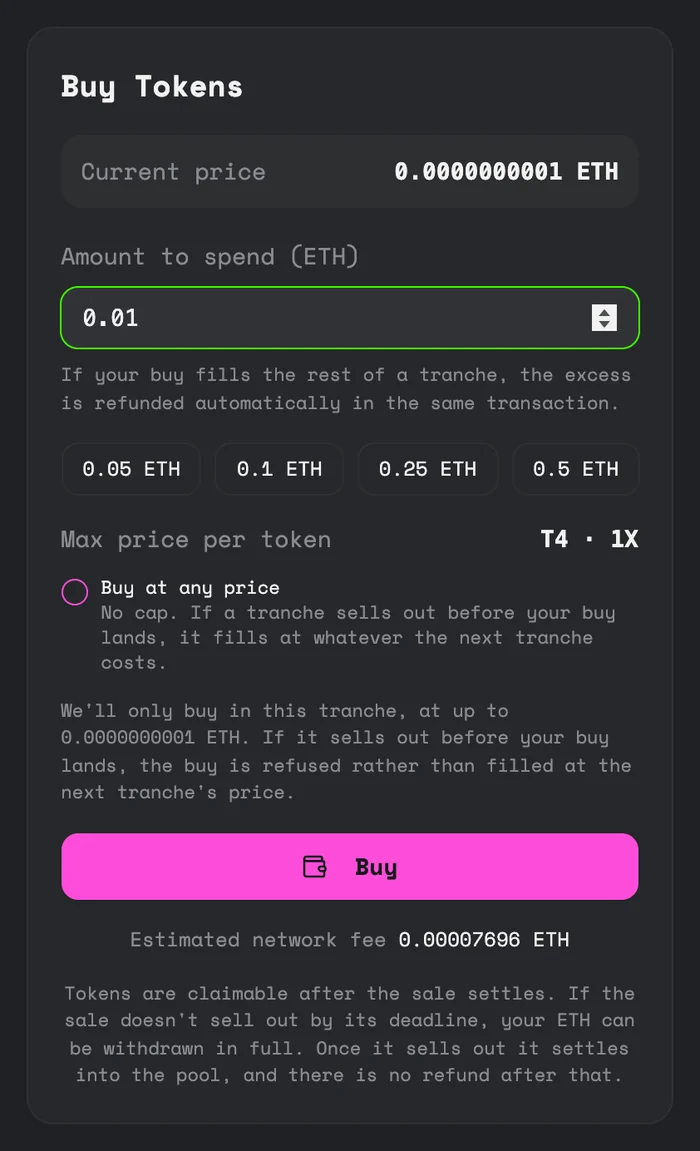
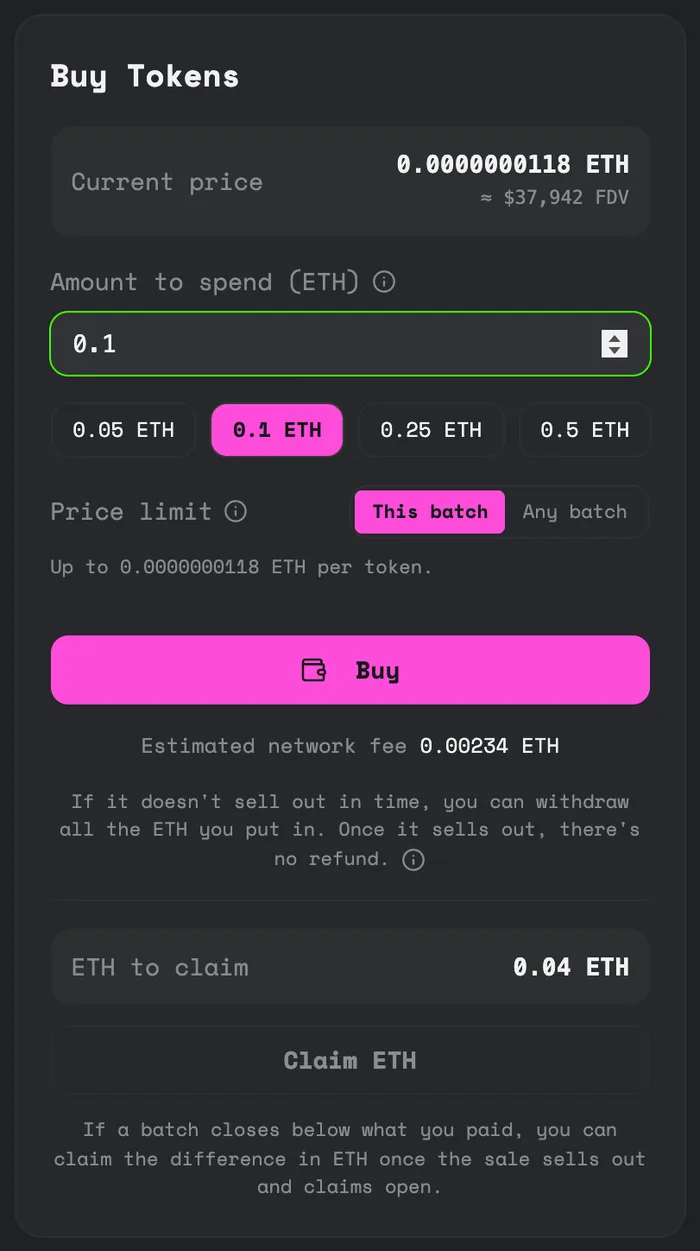
Retake every screenshot from the current app, and match the alt text, captions and footer
The screenshots now come from a local build of the frontend's main branch with
example data, so the alt text and captions describe what they show: the new
badge names, the Claim panel, the sold-out trading buttons, the Creator Fee row
and the 4-hour sale timeout. The footer on every page now says the screenshots
are from punk.fun on Ethereum and that the names and numbers are examples.

diff --git a/launch-a-token.html b/launch-a-token.html
@@ -68,7 +68,7 @@
 
     <h2>Step 1: Your token</h2>
     <figure class="shot">
-        <img src="img/launch-details.webp" alt="The token details section of the launch form: name, ticker, fixed supply of 1,000,000,000, description, X account and image" loading="lazy">
+        <img src="img/launch-details.webp" alt="The top of the launch form filled in with the name Dingo and the ticker $DINGO, the fixed supply of 1,000,000,000, a description, a Connect X button and the token image upload" loading="lazy">
         <figcaption>The top of the launch form. Supply is fixed at 1 billion, so there's nothing to choose there.</figcaption>
     </figure>
     <div class="table-wrap">
@@ -86,7 +86,7 @@
 
     <h2>Step 2: Sale settings</h2>
     <figure class="shot">
-        <img src="img/launch-sale-settings.webp" alt="The sale settings section: sale start, opening price and sale timeout with 4 hours, 1 day, 1 week and 30 days buttons" loading="lazy">
+        <img src="img/launch-sale-settings.webp" alt="The sale settings section: sale start, opening price of 0.00000001 ETH with its starting FDV, and sale timeout with 4 hours, 1 day, 1 week and 30 days buttons and 1 day picked" loading="lazy">
         <figcaption>Sale settings: when the sale opens, the opening price and how long it runs.</figcaption>
     </figure>
     <div class="table-wrap">
@@ -103,8 +103,8 @@
     <h2>Step 3: Advanced settings</h2>
     <p>These are filled in with the defaults. You only need to open them if you want a different shape of sale.</p>
     <figure class="shot">
-        <img src="img/launch-advanced.webp" alt="The advanced configuration section with first batch size, price floor, price decay, batch size growth, batch price growth, decay growth, launch price multiplier and the creator fee slider" loading="lazy">
-        <figcaption>Advanced settings, filled in with the defaults, with the creator fee slider at the bottom. Each one shows its allowed range underneath.</figcaption>
+        <img src="img/launch-advanced.webp" alt="The advanced configuration section with first batch size, price floor, price decay, batch size growth, batch price growth, decay growth, launch price multiplier and the Set creator fee slider at 5%, rated Healthy" loading="lazy">
+        <figcaption>Advanced settings, filled in with the defaults, with the creator fee slider at the bottom. Each one shows its default underneath, and the multiples show their allowed range too.</figcaption>
     </figure>
     <div class="table-wrap">
     <table>
@@ -136,7 +136,7 @@
 
     <h2>Step 4: Launch</h2>
     <figure class="shot">
-        <img src="img/launch-submit.webp" alt="The Launch Token button with the estimated network fee, and a note that the wallet signs the whole launch once" loading="lazy">
+        <img src="img/launch-submit.webp" alt="The Launch Token button, a note that your wallet asks you to confirm once, and the Fees box with the creator fee rated Healthy" loading="lazy">
         <figcaption>If your wallet can batch transactions, you sign the whole launch once.</figcaption>
     </figure>
     <p>Press <strong>Launch Token</strong>. If your wallet can batch transactions, you sign once and that one signature creates your token, creates the sale, funds it with the full supply and opens it.</p>
@@ -169,7 +169,7 @@
     <img class="beads-strip" src="img/brand/beads-strip.png" alt="" aria-hidden="true">
 
     <footer>
-        punk.fun documentation &middot; <a href="https://punk.fun">punk.fun</a> &middot; punk.fun is in alpha on Ethereum. Some screenshots were taken on a test network before launch, so the names and numbers in them are examples.
+        punk.fun documentation &middot; <a href="https://punk.fun">punk.fun</a> &middot; punk.fun is in alpha on Ethereum. The screenshots are from punk.fun on Ethereum, and the names and numbers in them are examples.
     </footer>
 </main>
 

diff --git a/sale-states.html b/sale-states.html
@@ -79,31 +79,31 @@
 
     <h2>Upcoming</h2>
     <figure class="shot wide">
-        <img src="img/sale-upcoming.webp" alt="A sale marked SOON with a countdown to when the auction opens and a Notify Me When Live button" loading="lazy">
+        <img src="img/sale-upcoming.webp" alt="A sale marked Upcoming, saying the auction begins in about 2 hours, with the start block and a Notify Me When Live button" loading="lazy">
         <figcaption>A scheduled sale. The page counts down to the block where buying opens.</figcaption>
     </figure>
 
     <h2>Live</h2>
     <figure class="shot wide">
-        <img src="img/sale-live-overview.webp" alt="A live sale with the price, progress, chart and Buy Tokens panel" loading="lazy">
+        <img src="img/sale-live-overview.webp" alt="A sale marked Live with the current price, batch, progress, the batch chart and the Buy Tokens panel" loading="lazy">
         <figcaption>A live sale. See <a href='buy-in-an-auction.html'>Buy in an auction</a>.</figcaption>
     </figure>
 
     <h2>Sold out</h2>
     <figure class="shot wide">
-        <img src="img/sale-soldout.webp" alt="A sold-out sale with the Claim Your Tokens panel" loading="lazy">
+        <img src="img/sale-soldout.webp" alt="A sale marked Sold out with the Claim panel and the Trade on Uniswap button" loading="lazy">
         <figcaption>A sold-out sale. See <a href='after-the-sale.html'>Claiming and after the sale</a>.</figcaption>
     </figure>
 
     <h2>Ended &ndash; ETH to claim</h2>
     <figure class="shot wide">
-        <img src="img/sale-expired.webp" alt="A sale marked EXPIRED with a Your Refund card and a Withdraw button" loading="lazy">
+        <img src="img/sale-expired.webp" alt="A sale marked Ended &ndash; ETH to claim with an Auction Expired note, a Your Refund card and a Withdraw button" loading="lazy">
         <figcaption>A sale that missed its deadline, with refunds open. See <a href='refunds.html'>When a sale doesn't sell out</a>.</figcaption>
     </figure>
 
     <h2>Not funded</h2>
     <figure class="shot wide">
-        <img src="img/sale-notfunded.webp" alt="A sale marked NOT FUNDED saying setup is incomplete" loading="lazy">
+        <img src="img/sale-notfunded.webp" alt="A sale marked Not funded with a Setup incomplete card saying whoever launched it needs to finish the last step" loading="lazy">
         <figcaption>A launch that was started but not finished. This only happens with wallets that need four confirmations to launch.</figcaption>
     </figure>
 
@@ -121,7 +121,7 @@
     <img class="beads-strip" src="img/brand/beads-strip.png" alt="" aria-hidden="true">
 
     <footer>
-        punk.fun documentation &middot; <a href="https://punk.fun">punk.fun</a> &middot; punk.fun is in alpha on Ethereum. Some screenshots were taken on a test network before launch, so the names and numbers in them are examples.
+        punk.fun documentation &middot; <a href="https://punk.fun">punk.fun</a> &middot; punk.fun is in alpha on Ethereum. The screenshots are from punk.fun on Ethereum, and the names and numbers in them are examples.
     </footer>
 </main>
 

diff --git a/after-the-sale.html b/after-the-sale.html
@@ -72,14 +72,14 @@
     </ol>
 
     <figure class="shot wide">
-        <img src="img/sale-soldout.webp" alt="A sold-out sale marked CLAIM, with all four batches filled, a Claim Your Tokens panel and a Trade on Uniswap button" loading="lazy">
-        <figcaption>A sold-out sale. Every batch has filled, the claim panel is open, and there's a link to trade the token on Uniswap.</figcaption>
+        <img src="img/sale-soldout.webp" alt="A sold-out sale marked Sold out, with all eight batches filled, a Claim panel, and a strip saying the token is now trading on Uniswap with Trade on Uniswap, Chart on DexScreener and Pool on Etherscan buttons" loading="lazy">
+        <figcaption>A sold-out sale. Every batch has filled, the Claim panel is open, and the buttons at the top take you to the token on Uniswap.</figcaption>
     </figure>
 
     <h2>Claiming</h2>
     <figure class="shot narrow">
-        <img src="img/claim-panel.webp" alt="The Claim Your Tokens panel showing 150,000,000 DINGO claimable and a Claim button" loading="lazy">
-        <figcaption>One press claims everything you're owed.</figcaption>
+        <img src="img/claim-panel.webp" alt="The Claim panel showing 42,000 ACID to claim and 0.04 ETH to claim, with Claim 42,000 ACID, Claim ETH and Claim all buttons" loading="lazy">
+        <figcaption>The Claim panel. Claim your tokens and any ETH you're owed separately, or press Claim all to take both at once.</figcaption>
     </figure>
     <p>Once a sale has sold out, the buy panel becomes the <strong>Claim</strong> panel. One transaction claims all your tokens. There's no deadline.</p>
 
@@ -92,7 +92,7 @@
     <p>Your <strong>Profile</strong> page lists everything you can claim or withdraw across all sales, including ETH you're owed back, plus your open positions in live ones.</p>
 
     <figure class="shot wide">
-        <img src="img/profile.webp" alt="The Profile page showing claimable items, open positions and your launches" loading="lazy">
+        <img src="img/profile.webp" alt="The Profile page with the wallet address and points at the top, then Claimable, Open positions and Your launches" loading="lazy">
         <figcaption>Your Profile page, with anything claimable or refundable at the top.</figcaption>
     </figure>
 
@@ -128,7 +128,7 @@
     <img class="beads-strip" src="img/brand/beads-strip.png" alt="" aria-hidden="true">
 
     <footer>
-        punk.fun documentation &middot; <a href="https://punk.fun">punk.fun</a> &middot; punk.fun is in alpha on Ethereum. Some screenshots were taken on a test network before launch, so the names and numbers in them are examples.
+        punk.fun documentation &middot; <a href="https://punk.fun">punk.fun</a> &middot; punk.fun is in alpha on Ethereum. The screenshots are from punk.fun on Ethereum, and the names and numbers in them are examples.
     </footer>
 </main>
 

diff --git a/buy-in-an-auction.html b/buy-in-an-auction.html
@@ -67,7 +67,7 @@
     <p>The Explore page shows every launch as a list or a grid of tiles, each with a badge showing where it's at. You can filter by Upcoming, Live or Sold out, or switch on <strong>Verified X only</strong> to see only creators who've proved their X account. <strong>Live</strong> means you can buy now. The other badges are explained on <a href="sale-states.html">Sale states</a>.</p>
 
     <figure class="shot">
-        <img src="img/explore-list.webp" alt="The All Tokens list on the Explore page, with CLAIM, LIVE, UNSOLD, EXPIRED, SOON and NOT FUNDED badges" loading="lazy">
+        <img src="img/explore-list.webp" alt="The All Tokens list on the Explore page sorted by Latest Launch, with the Upcoming, Live, Sold out and Ended filters above it and Upcoming, Not funded, Live, Selling out and Sold out badges on the rows" loading="lazy">
         <figcaption>The token list on Explore. Each badge tells you what you can do with that sale right now.</figcaption>
     </figure>
 
@@ -88,7 +88,7 @@
 
     <h2>Placing a buy</h2>
     <figure class="shot narrow">
-        <img src="img/buy-panel.webp" alt="The Buy Tokens panel with the current price, an amount to spend, quick amounts, the price limit option and the Buy button" loading="lazy">
+        <img src="img/buy-panel.webp" alt="The Buy Tokens panel with the current price and its FDV, 0.1 ETH entered, quick amounts, Price limit set to This batch, the Buy button and the estimated network fee" loading="lazy">
         <figcaption>The Buy Tokens panel. Enter the ETH you want to spend, or tap one of the quick amounts. The network fee is estimated before you sign. Beneath the price you'll see roughly what the whole token would be worth in dollars at that price, its FDV.</figcaption>
     </figure>
     <p>You enter an amount of ETH. The sale works out how many tokens that buys at the current price and records them against your wallet. That number of tokens is fixed from then on. Three things are worth knowing.</p>
@@ -150,7 +150,7 @@
     <img class="beads-strip" src="img/brand/beads-strip.png" alt="" aria-hidden="true">
 
     <footer>
-        punk.fun documentation &middot; <a href="https://punk.fun">punk.fun</a> &middot; punk.fun is in alpha on Ethereum. Some screenshots were taken on a test network before launch, so the names and numbers in them are examples.
+        punk.fun documentation &middot; <a href="https://punk.fun">punk.fun</a> &middot; punk.fun is in alpha on Ethereum. The screenshots are from punk.fun on Ethereum, and the names and numbers in them are examples.
     </footer>
 </main>
 

diff --git a/refunds.html b/refunds.html
@@ -68,8 +68,8 @@
 
     <h2>Getting your ETH back</h2>
     <figure class="shot wide">
-        <img src="img/sale-unsold.webp" alt="A sale page marked UNSOLD with a Your Refund card showing 0.0582 ETH available to withdraw" loading="lazy">
-        <figcaption>A sale that missed its deadline. The Your Refund card shows what you can take back.</figcaption>
+        <img src="img/sale-unsold.webp" alt="A sale page marked Ended &ndash; ETH to claim with a Sale Ended Unsold note and a Your Refund card showing 0.8 ETH available to withdraw" loading="lazy">
+        <figcaption>A sale that missed its deadline and that nobody has closed yet. The Your Refund card shows what you can take back, and that a wallet that can batch closes the sale and sends your ETH back in one confirmation.</figcaption>
     </figure>
     <p>Open the sale and press <strong>Withdraw</strong> on the Your Refund card. You get back exactly what you paid. Not a share, not minus a fee: the same amount. There's no deadline to withdraw, so there's no rush.</p>
 
@@ -79,7 +79,7 @@
     </div>
 
     <figure class="shot">
-        <img src="img/refund-expired.webp" alt="The Your Refund card on an expired sale with a Withdraw 0.0776 ETH button" loading="lazy">
+        <img src="img/refund-expired.webp" alt="The Your Refund card on a closed sale with 0.8 ETH available to withdraw and a Withdraw 0.8 ETH button" loading="lazy">
         <figcaption>Once someone has closed the sale, withdrawing is a single ordinary transaction.</figcaption>
     </figure>
 
@@ -107,7 +107,7 @@
     <img class="beads-strip" src="img/brand/beads-strip.png" alt="" aria-hidden="true">
 
     <footer>
-        punk.fun documentation &middot; <a href="https://punk.fun">punk.fun</a> &middot; punk.fun is in alpha on Ethereum. Some screenshots were taken on a test network before launch, so the names and numbers in them are examples.
+        punk.fun documentation &middot; <a href="https://punk.fun">punk.fun</a> &middot; punk.fun is in alpha on Ethereum. The screenshots are from punk.fun on Ethereum, and the names and numbers in them are examples.
     </footer>
 </main>
 

diff --git a/the-pool.html b/the-pool.html
@@ -110,8 +110,8 @@
     <p>So the last batch, which is three quarters of the money in the sale, starts about 34% below what it paid before anyone has traded. Earlier batches start above what they paid. This isn't a bug or a fee, it's arithmetic: the average is always below the top of a rising price ladder.</p>
 
     <figure class="shot wide">
-        <img src="img/sale-soldout.webp" alt="A sold-out sale with an average paid line at 4.26 gwei, below the last batch's bar" loading="lazy">
-        <figcaption>The same thing on a real sale on the test network, before launch. The dashed line is the average paid, 4.26 gwei. The last batch paid 7.60 gwei, so trading opened about 44% below it.</figcaption>
+        <img src="img/sale-soldout.webp" alt="A sold-out sale whose chart has a dashed average-paid line at an FDV of $84.8K, well below the last batch's bar" loading="lazy">
+        <figcaption>The same thing on a sale page. The chart shows prices as FDV in dollars. The dashed line is the average paid, an FDV of $84.8K. The last batch cleared at 0.0000000376 ETH, an FDV of about $120K, so trading opened about 30% below it.</figcaption>
     </figure>
 
     <div class="callout warn">
@@ -142,7 +142,7 @@
     <img class="beads-strip" src="img/brand/beads-strip.png" alt="" aria-hidden="true">
 
     <footer>
-        punk.fun documentation &middot; <a href="https://punk.fun">punk.fun</a> &middot; punk.fun is in alpha on Ethereum. Some screenshots were taken on a test network before launch, so the names and numbers in them are examples.
+        punk.fun documentation &middot; <a href="https://punk.fun">punk.fun</a> &middot; punk.fun is in alpha on Ethereum. The screenshots are from punk.fun on Ethereum, and the names and numbers in them are examples.
     </footer>
 </main>
 

diff --git a/how-it-works.html b/how-it-works.html
@@ -100,8 +100,8 @@
     <p><a href="pricing.html">Pricing</a> covers the settings and what to expect as a buyer.</p>
 
     <figure class="shot wide">
-        <img src="img/sale-live-overview.webp" alt="A live sale page showing the token, current price, auction progress, the batch chart and the Buy Tokens panel" loading="lazy">
-        <figcaption>A live sale. The chart shows each batch, the progress bar shows how much of the 500M has been bought, and you buy from the panel on the right.</figcaption>
+        <img src="img/sale-live-overview.webp" alt="A live sale page showing the token, current price, auction progress, the batch chart, the Buy Tokens panel and Token Details" loading="lazy">
+        <figcaption>A live sale. The chart shows each batch, the progress bar shows how much of the 500M has been bought, and you buy from the panel on the right. On a phone, the panel comes after the chart.</figcaption>
     </figure>
 
     <div class="callout">
@@ -152,7 +152,7 @@
     <img class="beads-strip" src="img/brand/beads-strip.png" alt="" aria-hidden="true">
 
     <footer>
-        punk.fun documentation &middot; <a href="https://punk.fun">punk.fun</a> &middot; punk.fun is in alpha on Ethereum. Some screenshots were taken on a test network before launch, so the names and numbers in them are examples.
+        punk.fun documentation &middot; <a href="https://punk.fun">punk.fun</a> &middot; punk.fun is in alpha on Ethereum. The screenshots are from punk.fun on Ethereum, and the names and numbers in them are examples.
     </footer>
 </main>
 

diff --git a/fees.html b/fees.html
@@ -80,8 +80,8 @@
     </div>
 
     <figure class="shot narrow">
-        <img src="img/token-details.webp" alt="The Token Details card on a sale page listing Platform Fee 5% of ETH raised and Launcher Fee 2.5% of supply (Healthy)" loading="lazy">
-        <figcaption>Every sale page shows its fees in the Token Details card, so buyers can see them before they buy. The app shows the creator fee as Launcher Fee, with its rating. This sale's was 2.5% of supply (Healthy).</figcaption>
+        <img src="img/token-details.webp" alt="The Token Details card on a sale page listing Platform Fee 5% of ETH raised and Creator Fee 2.5% of supply (Healthy)" loading="lazy">
+        <figcaption>Every sale page shows its fees in the Token Details card, so buyers can see them before they buy. The Creator Fee row shows the fee and its rating. This sale's was 2.5% of supply (Healthy).</figcaption>
     </figure>
 
     <h2>The creator fee</h2>
@@ -124,7 +124,7 @@
     <img class="beads-strip" src="img/brand/beads-strip.png" alt="" aria-hidden="true">
 
     <footer>
-        punk.fun documentation &middot; <a href="https://punk.fun">punk.fun</a> &middot; punk.fun is in alpha on Ethereum. Some screenshots were taken on a test network before launch, so the names and numbers in them are examples.
+        punk.fun documentation &middot; <a href="https://punk.fun">punk.fun</a> &middot; punk.fun is in alpha on Ethereum. The screenshots are from punk.fun on Ethereum, and the names and numbers in them are examples.
     </footer>
 </main>
 

diff --git a/pricing.html b/pricing.html
@@ -117,8 +117,8 @@
 
     <h2>Reading the chart</h2>
     <figure class="shot wide">
-        <img src="img/chart.webp" alt="The auction chart with one square per batch, labelled B1, B2 and so on, on an FDV axis, with a dashed average-paid line" loading="lazy">
-        <figcaption>The chart on a live sale. Three batches have filled and the fourth is open now.</figcaption>
+        <img src="img/chart.webp" alt="The auction chart with one block per batch, labelled B1 to B6, on an FDV axis in dollars, with a dashed average-paid line and Batch 6 half filled" loading="lazy">
+        <figcaption>The chart on a live sale. Five batches have filled and the sixth is open now, half sold.</figcaption>
     </figure>
     <ul>
         <li><strong>Each square is a batch</strong>, labelled B1, B2 and so on. A bigger square is a bigger batch, and a square that sits higher has a higher price.</li>
@@ -144,7 +144,7 @@
     <img class="beads-strip" src="img/brand/beads-strip.png" alt="" aria-hidden="true">
 
     <footer>
-        punk.fun documentation &middot; <a href="https://punk.fun">punk.fun</a> &middot; punk.fun is in alpha on Ethereum. Some screenshots were taken on a test network before launch, so the names and numbers in them are examples.
+        punk.fun documentation &middot; <a href="https://punk.fun">punk.fun</a> &middot; punk.fun is in alpha on Ethereum. The screenshots are from punk.fun on Ethereum, and the names and numbers in them are examples.
     </footer>
 </main>
 

diff --git a/punk.html b/punk.html
@@ -64,7 +64,7 @@
     <p class="lead">punk.fun has two sides. Fun is live now and is what the rest of these docs cover. Punk is the analytical side, with deeper tokenomics, auction mechanics and full market data. It's still being built.</p>
 
     <figure class="shot wide">
-        <img src="img/punk-coming-soon.webp" alt="The Punk coming soon page on punk.fun with an email sign-up" loading="lazy">
+        <img src="img/punk-coming-soon.webp" alt="The Punk is coming soon page on punk.fun with a sign-up box for updates" loading="lazy">
         <figcaption>If you pick Punk on punk.fun today you'll land here. Leave your email and you'll hear the day it opens.</figcaption>
     </figure>
 
@@ -89,7 +89,7 @@
     <img class="beads-strip" src="img/brand/beads-strip.png" alt="" aria-hidden="true">
 
     <footer>
-        punk.fun documentation &middot; <a href="https://punk.fun">punk.fun</a> &middot; punk.fun is in alpha on Ethereum. Some screenshots were taken on a test network before launch, so the names and numbers in them are examples.
+        punk.fun documentation &middot; <a href="https://punk.fun">punk.fun</a> &middot; punk.fun is in alpha on Ethereum. The screenshots are from punk.fun on Ethereum, and the names and numbers in them are examples.
     </footer>
 </main>
 

diff --git a/index.html b/index.html
@@ -109,7 +109,7 @@
     </div>
 
     <figure class="shot wide">
-        <img src="img/discover.webp" alt="The punk.fun Discover page with the headline Unruggable Liquidity" loading="lazy">
+        <img src="img/discover.webp" alt="The punk.fun Discover page with the headline Unruggable Liquidity and Try it out and Learn More buttons" loading="lazy">
         <figcaption>The Discover page on punk.fun. The pool's liquidity can't be pulled by anyone, including the creator.</figcaption>
     </figure>
 
@@ -147,7 +147,7 @@
     <img class="beads-strip" src="img/brand/beads-strip.png" alt="" aria-hidden="true">
 
     <footer>
-        punk.fun documentation &middot; <a href="https://punk.fun">punk.fun</a> &middot; punk.fun is in alpha on Ethereum. Some screenshots were taken on a test network before launch, so the names and numbers in them are examples.
+        punk.fun documentation &middot; <a href="https://punk.fun">punk.fun</a> &middot; punk.fun is in alpha on Ethereum. The screenshots are from punk.fun on Ethereum, and the names and numbers in them are examples.
     </footer>
 </main>
 

diff --git a/faq.html b/faq.html
@@ -202,7 +202,7 @@
     <img class="beads-strip" src="img/brand/beads-strip.png" alt="" aria-hidden="true">
 
     <footer>
-        punk.fun documentation &middot; <a href="https://punk.fun">punk.fun</a> &middot; punk.fun is in alpha on Ethereum. Some screenshots were taken on a test network before launch, so the names and numbers in them are examples.
+        punk.fun documentation &middot; <a href="https://punk.fun">punk.fun</a> &middot; punk.fun is in alpha on Ethereum. The screenshots are from punk.fun on Ethereum, and the names and numbers in them are examples.
     </footer>
 </main>
 
